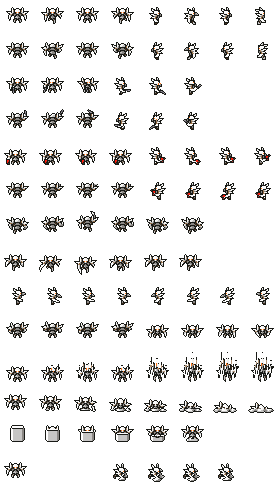
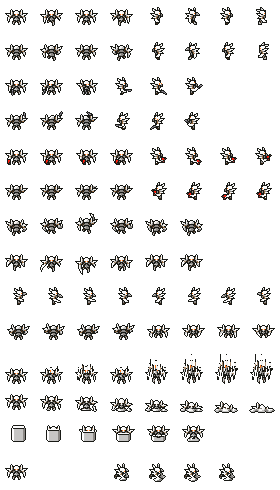
Updated sprites, and +1 bugfix

diff --git a/README.md b/README.md
@@ -33,7 +33,7 @@ Mod order:
 
 ## QOL (gameplay)
 <ol>
-	<li>map_warningcircle.png and map_warningcircle_point.png: integrated Sleeper Games + MantisManMike's Enhanced Fleet Pursuit mod, showing the Rebel Fleet's position in future jumps.</li>
+	<li>Map: integrated Sleeper Games + MantisManMike's Enhanced Fleet Pursuit mod, showing the Rebel Fleet's position in future jumps.</li>
 	<li>Mini-Beam: increased length from 45 to 47, to remove the need for pixel-perfect positioning to maximise damage.</li>
 	<li>Advanced Flak, Flak I, Flak II, Flak Artillery: removed fake projectiles.</li>
 	<li>Shifted starting crew to generally better positions. Credit to MantisManMike. Order is Pilot, Engines, Weapons, Shields:</li>
@@ -54,13 +54,21 @@ Mod order:
 ## Bugfixes (non-gameplay)
 <ol>
 	<li>Anti-Ship Beam Drone II, Small Bomb, Hull Beam, Stun Bomb, Ion Charger, Beam Projectiles, Explosions: Fixed animations.</li>
-	<li>Lanius: Fixed bad alignment of sprites. Credit to MantisManMike.</li>
-	<li>Crystal, Engi, Human, Mantis, Rock, Zoltan: Fixed bad alignment of sprites in the Clone Bay queue. Credit to MantisManMike.</li>
+	<li>Shifted misaligned crew sprites:</li>
+	<ol>
+		<li>Crystal: 1 left</li>
+		<li>Engi: 1 left</li>
+		<li>Lanius: 1 right, except for clone queue sprite which needs to be 1 left</li>
+		<li>Mantis: 1 left</li>
+		<li>Rock: 1 left</li>
+		<li>Slug: 1 right</li>
+	</ol>
 	<li>Ion Intruder Drone: Fixed bad pixels. Credit to Masala.</li>
-	<li>Ship Upgrade Menu: Fixed misaligned Accept button.</li>
+	<li>Ship Upgrade Menu: Fixed misaligned Accept button base.</li>
 	<li>EVENTS:</li>
 	<ol>
 		<li>MERCHANT_REQUEST: An event where a quest marker is added had no accompanying text, causing blank lines at the top of the textbox. Added text to solve this.</li>
+		<li>PIRATE_CIVILIAN_BEACON: If you successfully scare off the pirate with the Weapons System blue option, then roll a "standard" autoReward, you will not be shown a preview of it.</li>
 	</ol>
 	<li>SHIPS:</li>
 	<ol>
